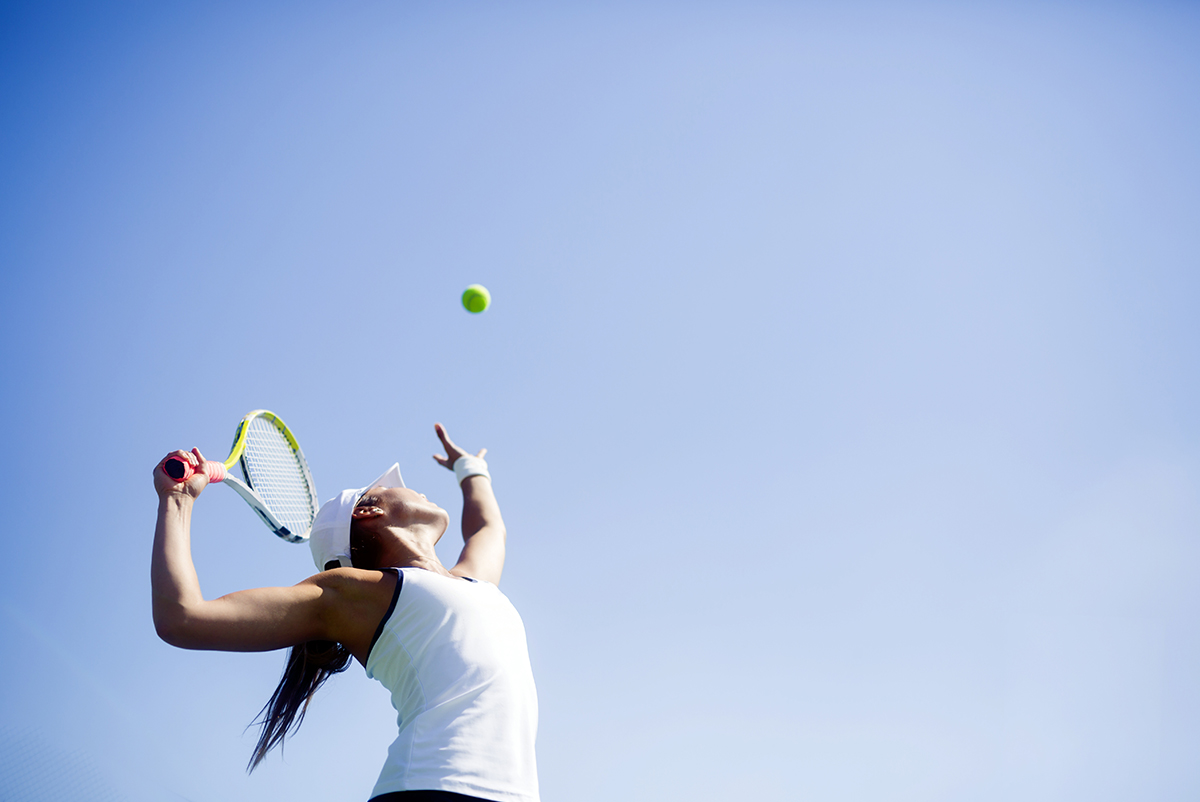
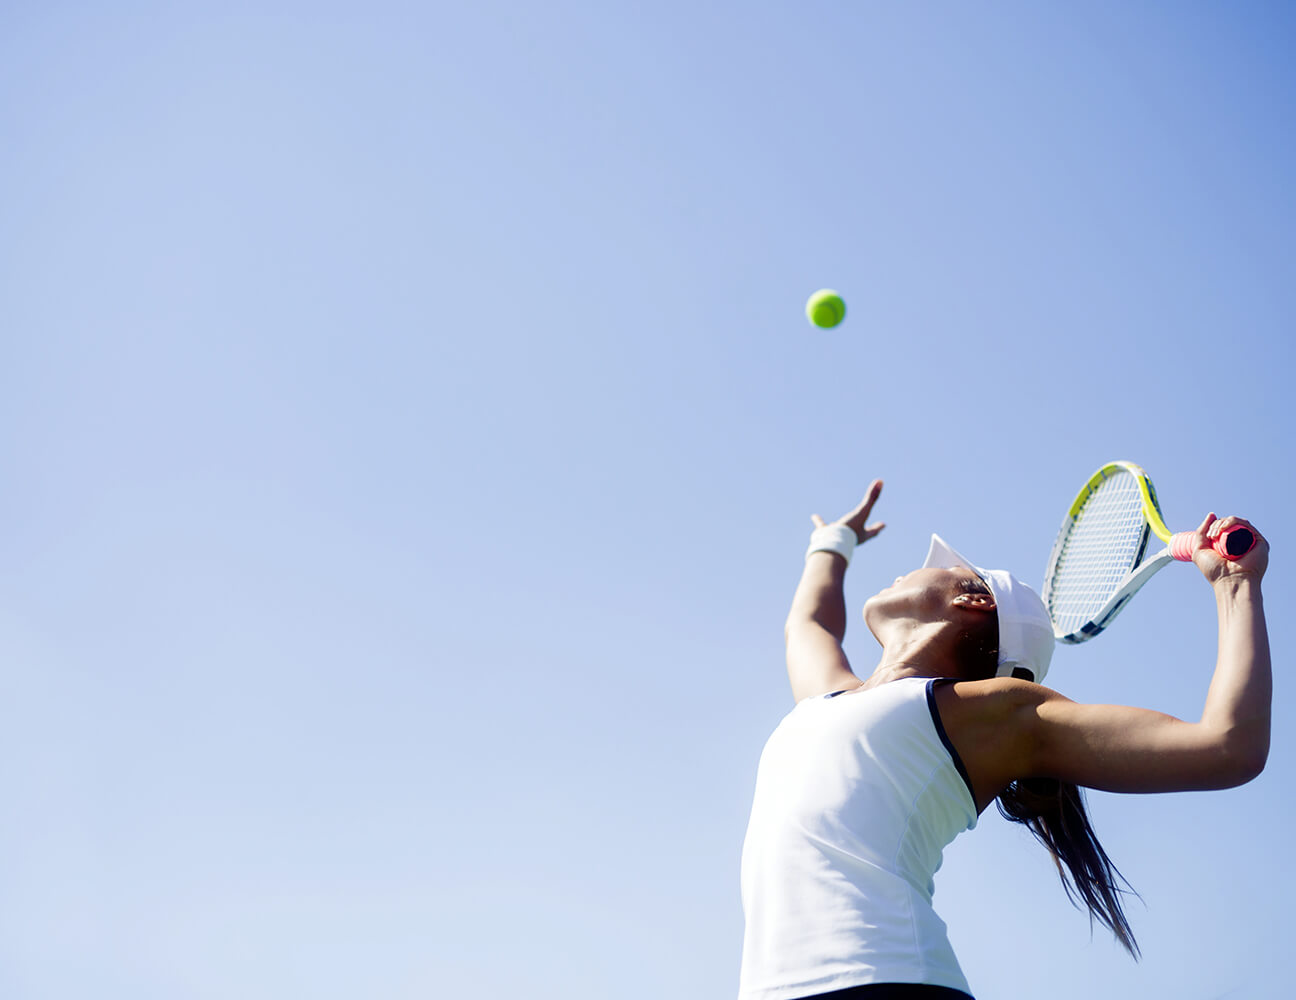
I have managed to get the Upload page to look almost as I expect although am having issues with the background image and its size along with the position that it takes up. I will try and fix this before moving on. Once this is all ok I will use this as a template along with the CSS for the contact u

diff --git a/assets/css/style.css b/assets/css/style.css
@@ -69,11 +69,10 @@ if you find the colour for white this may help
 .welcome { 
     font-family: Montserrat, sans-serif;
     font-weight: 400;
-    float: center;
     position: relative;
     margin-left: auto;
     margin-right: auto;
-    margin-top: 55%;
+    margin-top: 45%;
     margin-right: 10%;
     margin-left: 10%;
     top: 60px;
@@ -200,23 +199,136 @@ if you find the colour for white this may help
     font-size: 25px;
 }
 
+
+
+
+
+
+
+/* ------------------------------------------- Upload Text */
+
+.submit-heading { 
+    font-family: Montserrat, sans-serif;
+    color: #2a5490;
+    margin-top: 17%;
+    margin-left: 42px;
+}
+
+p.donate {
+    font-family: Montserrat, sans-serif;
+    margin-left: 42px;
+  
+}
+
+
+.fa-cc-paypal {
+    color: #df6530;
+    font-size: 25px;
+}
+
+.fa-cc-paypal:hover {
+    color: #2a5490;
+}
+
+
+
+/* ------------------------------------------- Upload Form */
+
+
+
+
+.upload-pic {
+    position: absolute;
+    max-width: auto;
+    max-height: auto;
+    padding: 0;
+    margin: 0;
+    z-index: -1;
+}
+
+
+/* taken from the Love Running Code Institute project and amended in places wo match what I am expecting to see based on my designs */
+
+.form-section {
+    clear: left;
+    background-size: cover;
+    background-position: center;
+    height: 900px;
+
+}
+
+.signup-form {
+    font-family: Montserrat, sans-serif;
+    margin-top: 280px;
+    background-color: rgba(255, 255, 255, 0.555);
+    max-width: 400px;
+    position: absolute;
+    left: 5%;
+    padding: 30px;
+}
+
+.text-input {
+    width: 100%;
+    height: 25px;
+    margin: 5px 0 20px 0;
+    border: 0.5px solid #000000;   
+}
+
+.text-input:hover {
+    border-color: #df6530;
+}
+
+.upload-button {
+    margin-top: 20px;
+    margin-bottom: 20px;
+    padding: 15px 32px 15px 32px;
+    text-align: center;
+    font-size: 100%;
+    background-color: #df6530;
+    border-color: #df6530;
+    
+    color: #fff;
+    display: block;
+}
+
+.btn-success:hover {
+    background-color: #2a5490;
+    border-color: #2a5490;
+}
+
+.we-transfer {
+    color: #2a5490;
+    text-decoration: none !important;
+}
+
+.we-transfer .a:hover {
+    color: #df6530;
+}
+
+
+
+
+
+
+
+
+
+
 /* ------------------------------------------- Footer */
 
 .footer {
     background-color: #2a5490;
     margin-top: 10px;
-    width: 100%;
-    position: relative;
+    min-width: 100%;
 }
-
 
 .title {
     font-family: Montserrat, sans-serif;
     font-size: 14.5px;
     color: #fff;
     margin-top: 20px;
-    margin-bottom: 0;
-    padding-bottom: 0;
+    margin-left: 10px;
+    margin-right: 10px;
 }
 
 .sponsors {
@@ -243,117 +355,6 @@ if you find the colour for white this may help
 }
 
 
-/* ------------------------------------------- Upload Text */
-
-.submit-heading { 
-    font-family: Montserrat, sans-serif;
-    color: #2a5490;
-    margin-top: 15%;
-    margin-left: 110px;
-}
-
-.donate {
-    font-family: Montserrat, sans-serif;
-    margin-top: 0;
-    margin-left: auto;
-    margin-left: 110px;
-}
-
-
-.fa-cc-paypal {
-    color: #df6530;
-    font-size: 25px;
-}
-
-.fa-cc-paypal:hover {
-    color: #2a5490;
-}
-
-
-
-/* ------------------------------------------- Upload Form */
-
-
-.upload-pic {
-    position: absolute;
-    z-index: -1;
-}
-
-
-
-/* taken from the Love Running Code Institute project and amended in places wo match what I am expecting to see based on my designs */
-
-.form-section {
-    clear: left;
-    background-size: cover;
-    background-position: center;
-    height: 900px;
-
-}
-
-.signup-form {
-    font-family: Montserrat, sans-serif;
-    margin-top: 250px;
-    background-color: rgba(255, 255, 255, 0.555);
-    max-width: 400px;
-    position: absolute;
-    left: 5%;
-    padding: 30px;
-}
-
-.text-input {
-    width: 100%;
-    height: 25px;
-    margin: 5px 0 20px 0;
-    border: 0.5px solid #000000;   
-}
-
-.text-input:hover {
-    border-color: #df6530;
-}
-
-.upload-button {
-    margin-top: 20px;
-    margin-bottom: 20px;
-    /* border-radius: 2px; */
-    padding: 15px 32px 15px 32px;
-    text-align: center;
-    font-size: 100%;
-    background-color: #df6530;
-    border-color: #df6530;
-    
-    color: #fff;
-    display: block;
-}
-
-.btn-success:hover {
-    background-color: #2a5490;
-    border-color: #2a5490;
-}
-
-
-
-
-
-
-
-
-
-
-
-
-    
-    
-/* taken from the Love Running Code Institute project and amended in places wo match what I am expecting to see based on my designs */
-
-.we-transfer {
-    color: #2a5490;
-    text-decoration: none !important;
-}
-
-.we-transfer .a:hover {
-    color: #df6530;
-}
 
 
 /* ------------------------------------------- Media Queries */

diff --git a/upload.html b/upload.html
@@ -37,13 +37,12 @@
 <!-- Form taken from Code Institute Love Running Project and amended to fit my designs -->
 
 <section class="form-section">
+    <div class="col-8 sm-8"><img src="assets/images/upload.jpg" class="upload-pic" alt="Tennis player serving on court">
     <div class="row">
-            <div class="upload-pic"><img src="assets/images/upload4.jpg" alt="Tennis player serving on court"></div>
+            
 <h4 class="submit-heading">Submit and showcase your skills</h4>
-<p class="donate">Please donate, fill in the form and upload your video. Our friendly coaches will get back to you with our thoughts and constructive feedback.</p>
+<p class="donate">Please donate, fill in the form and upload your video. <br> Our friendly coaches will get back to you with our thoughts and constructive feedback.</p>
  
-
-
 
 <form class="signup-form" method="POST" action="https://formdump.codeinstitute.net/">
 <label for="name">Your Name:</label>
@@ -72,8 +71,11 @@
 <p>I would like to make a donation that will shared with the supporting charities. <a href="https://www.paypal.com/" target="_blank"><i class="fab fa-cc-paypal"></i></a></p>
 
 
+
+
 </form>
- </div>
+</div>
+</div>
 </section> 
 
 

diff --git a/index.html b/index.html
@@ -56,7 +56,7 @@
             will be glad you did.
         </p>
     </article>
-    <section class="about-section" id="about">
+    <section class="about-section">
         <article>
             <div class="about-us">
                 <div class="container">
